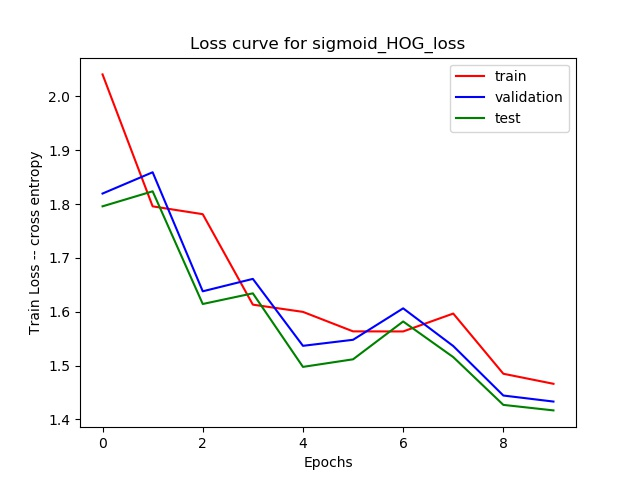
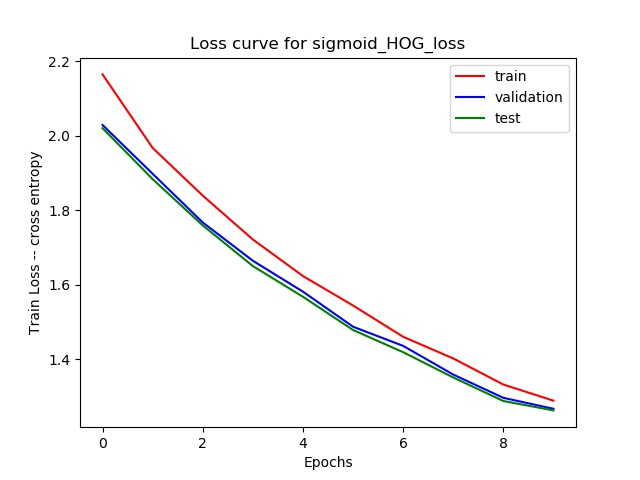
accuracy plots added

diff --git a/assign-1/main.py b/assign-1/main.py
@@ -104,7 +104,7 @@ def main():
     
     elif args.question=="6":
         epochs=10
-        initial_lr=8e-3
+        initial_lr=8e-4
         final_lr=8e-6
         variance=0.001
 
@@ -131,19 +131,24 @@ def main():
         run_stats(model,DATA_HOG_fold,tag="sigmoid")
 
     elif args.question=="7":
-        train_data = preprocess(DATA['train'])
+        train_data = np.array(preprocess(DATA['train']))
         val_data = np.array(preprocess(validation))
         test_data = np.array(preprocess(DATA['fold-4']))
 
-        print(val_data.shape)
         svc = svm.SVC(kernel='linear')
-        svc.fit(train_data[:,0], train_data[:,1])
+        labels=np.array([np.where(train_data[:,1][x]==1)[0][0] for x in range(len(train_data[:,1]))])
+        labels=np.array(labels).reshape((len(labels),1))
 
-        DATA_HOG_fold={'fold-{f}'.format(f=f):preprocess(DATA['fold-{f}'.format(f=f)]) for f in range(4)}
+        train_data=np.vstack(train_data[:,0])
+        svc.fit(train_data,labels)
 
-        helper.plot([train_losses,val_losses,test_losses],epochs=epochs,name="sigmoid_HOG")
-        run_stats(model,DATA_HOG_fold,tag="sigmoid")
-        
+        y_true=np.array([np.where(test_data[:,1][x]==1)[0][0] for x in range(len(test_data[:,1]))])
+        test_data=np.vstack(test_data[:,0])
+        y_pred=svc.predict(test_data)
+
+        print(sklearn.metrics.accuracy_score(y_true, y_pred))
+        print(sklearn.metrics.classification_report(y_true, y_pred))
+
     else:
         print("Invalid question {}".format(args.question))
 
